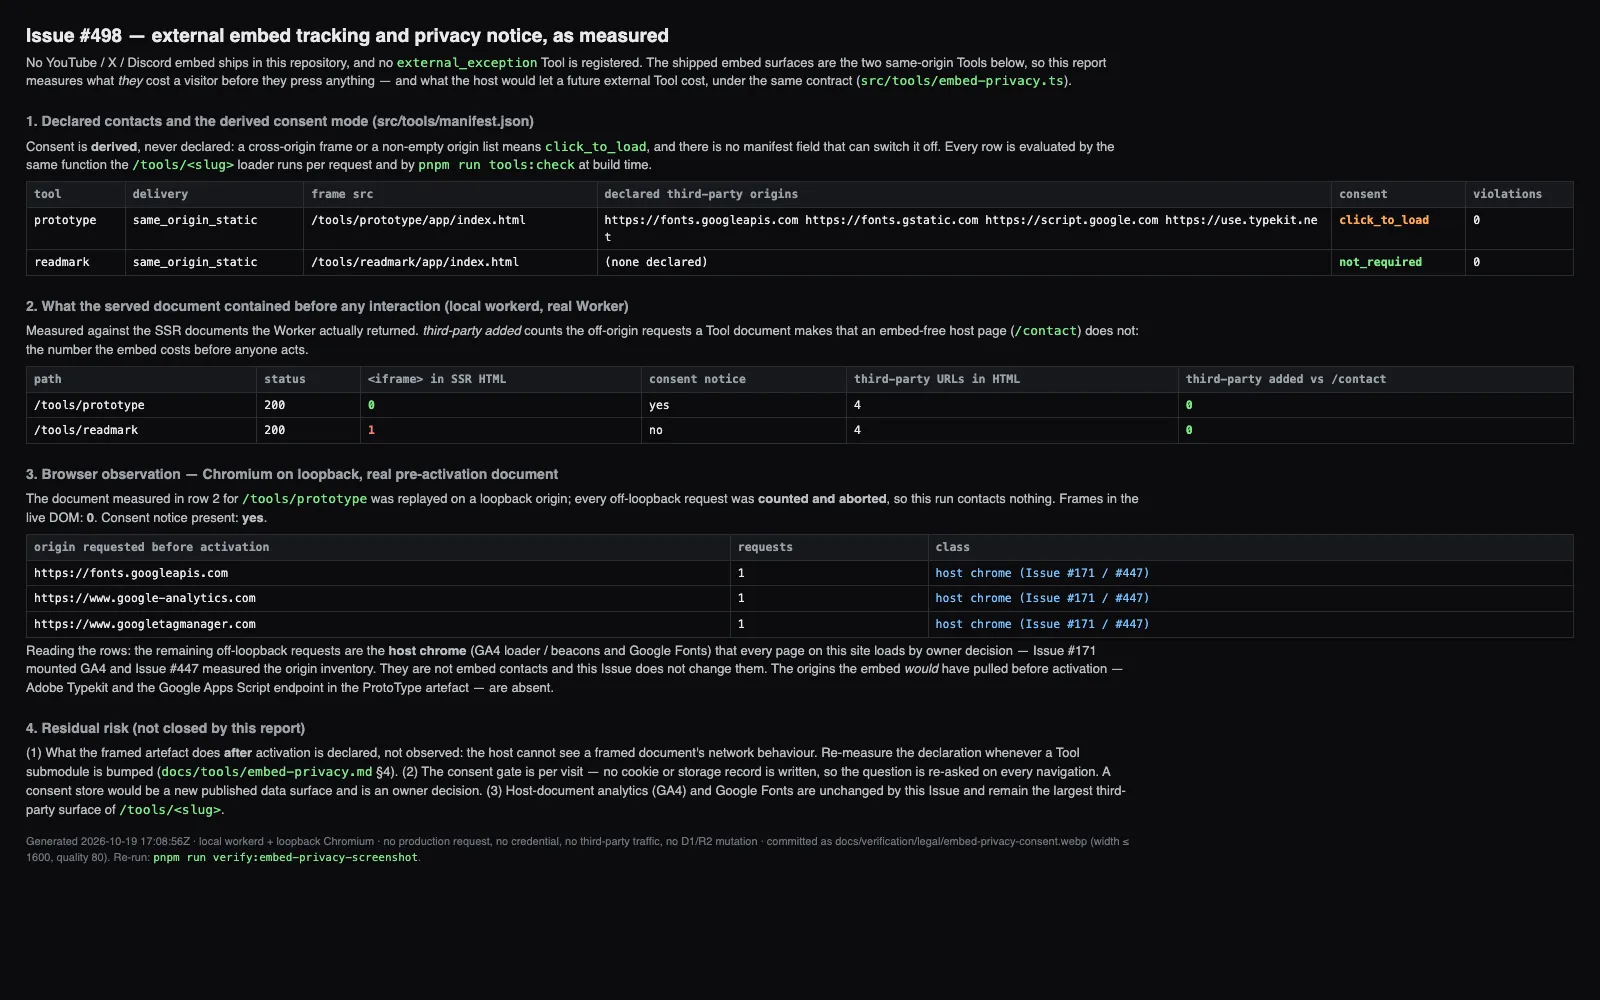
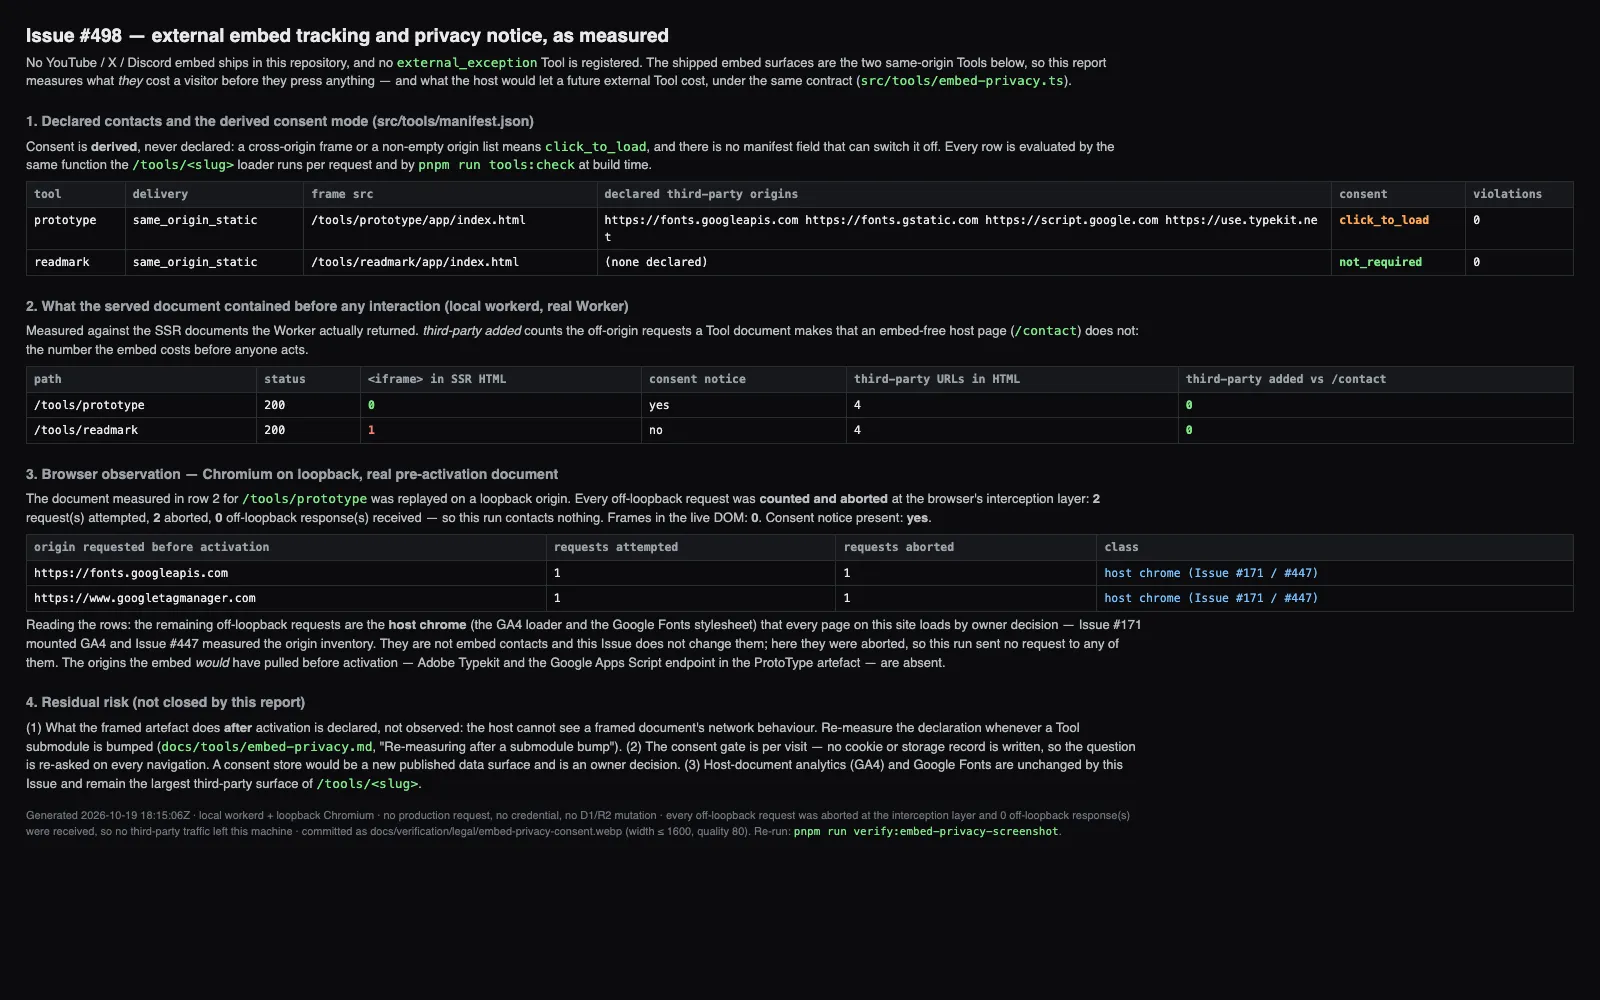
fix(tools): make the embed privacy evidence match what the probe does (#498)
The committed verification evidence claimed the browser leg "counted and
aborted" every off-loopback request, but the probe never aborted
anything: it only counted `page.on('request')` events. Re-running the
documented command therefore really did reach googletagmanager.com /
fonts.googleapis.com from the operator's machine, and the recorded
`google-analytics.com` row could only exist because the GA4 loader was
actually fetched.

- scripts/make-embed-privacy-report.mjs: intercept every request with
  `context.route`, count and ABORT the off-loopback ones in the same
  handler, and fail the run when an off-loopback response was received.
  The report now prints attempted / aborted / received counts.
- src/tools/embed-privacy.ts: resolve the frame src with
  `resolveToolFrameSrc()` (the embed policy's own resolver) instead of
  re-deriving it, and read an unresolved frame src as third-party so the
  gate fails closed; the comment now says what the code does.
- src/tools/embed-privacy.test.ts: pin both properties.
- src/tools/manifest.schema.json, docs/tools/embed-privacy.md: point at
  the "Re-measuring after a submodule bump" section instead of a wrong
  "§4".
- e2e/{tools-prototype,nav,tools-index}.spec.ts: re-click the
  server-rendered activation button until the frame mounts, so a click
  that lands before hydration cannot be swallowed.
- quality/bundle-budget.json: re-derive the three caps Issue #498
  touched with the documented formula (1,590,000 / 1,625,000 /
[…]

Changed region(s): [[0.0, 0.496, 0.8125, 0.868]]

diff --git a/src/tools/embed-privacy.ts b/src/tools/embed-privacy.ts
@@ -58,12 +58,19 @@
  *     Tool whose own frame origin is undeclared. It cannot observe a
  *     framed document's network behaviour, and this module does not
  *     pretend otherwise: re-declaring after a submodule bump is the
- *     documented duty (`docs/tools/embed-privacy.md` §4).
+ *     documented duty (the "Re-measuring after a submodule bump"
+ *     section of `docs/tools/embed-privacy.md`).
  *
  * Dependency-free like `embed-policy.ts` (no manifest import, no React,
  * no DOM), so `scripts/check-tools-manifest.mjs` imports it directly
  * under Node type stripping and the route imports the same function.
+ * The ONE thing it reads from `embed-policy.ts` is
+ * `resolveToolFrameSrc()` — the frame-src resolution, imported rather
+ * than re-derived, so the privacy contract and the embed policy can
+ * never disagree about which document the host mounts.
  */
+
+import { resolveToolFrameSrc } from './embed-policy.ts';
 
 /* ------------------------------------------------------------------ *
  * 1. consent modes
@@ -107,6 +114,7 @@ export interface ToolPrivacyDeclaration {
 /** The `delivery` fields the privacy contract reads. */
 export interface ToolPrivacyDeliveryLike {
 	readonly kind: string;
+	readonly artifact_path?: string;
 	readonly entry_html?: string;
 	readonly external_url?: string;
 	readonly privacy?: ToolPrivacyDeclaration | undefined;
@@ -195,12 +203,13 @@ export function toPrivacySubject(
 	slug: string,
 	delivery: ToolPrivacyDeliveryLike,
 ): EmbedPrivacySubject {
-	const frame_src =
-		delivery.kind === 'external_exception'
-			? (delivery.external_url ?? '')
-			: typeof delivery.entry_html === 'string' && delivery.entry_html.length > 0
-				? delivery.entry_html
-				: '';
+	// The SAME resolution the embed policy uses, so the privacy subject
+	// names the document the host will actually mount: `entry_html`
+	// first, then `artifact_path`/index.html for a `same_origin_static`
+	// entry that declares no entry HTML, then the external URL. A
+	// re-derived rule here would let the two contracts disagree about
+	// which document is framed.
+	const frame_src = resolveToolFrameSrc(delivery);
 	return {
 		slug,
 		kind: delivery.kind,
@@ -217,8 +226,13 @@ export function toPrivacySubject(
  * function distinguishes "the URL parser sends this elsewhere" (a
  * smuggling attempt) from "the author meant a foreign origin", and this
  * one only needs to know whether the frame document is third-party.
- * Anything it cannot parse is treated as third-party, so an unparseable
- * src can never lower the gate.
+ *
+ * An `src` this cannot parse stays `unresolved`, and the gate reads an
+ * unresolved frame as requiring consent (fail closed) — an unparseable
+ * `src` can never lower the gate. The frame-src rules in
+ * `embed-policy.ts` refuse such a `src` outright
+ * (`embed.frame-src.invalid-scheme`), so nothing unresolved is ever
+ * mounted; the fail-closed reading here is the second line of defence.
  */
 function classifyFrameOrigin(src: string): EmbedPrivacySubject['frame_origin'] {
 	if (typeof src !== 'string' || src.trim().length === 0) return 'unresolved';
@@ -362,8 +376,12 @@ export function evaluateEmbedPrivacy(subject: EmbedPrivacySubject): EmbedPrivacy
 
 	contacts.sort();
 
+	// Consent fails closed: a cross-origin frame, a frame whose `src`
+	// could not be resolved at all, or a non-empty declaration all
+	// require the visitor to activate the load. Only a same-origin
+	// frame that declares no contact may mount without asking.
 	const consent: EmbedConsentMode =
-		frame_is_third_party || contacts.length > 0
+		frame_is_third_party || subject.frame_origin === 'unresolved' || contacts.length > 0
 			? CONSENT_MODE_CLICK_TO_LOAD
 			: CONSENT_MODE_NOT_REQUIRED;
 

diff --git a/src/tools/embed-privacy.test.ts b/src/tools/embed-privacy.test.ts
@@ -292,14 +292,32 @@ describe('embed privacy — origin normalisation and subject flattening', () => 
 		});
 	});
 
+	it('resolves the frame src exactly the way the embed policy resolves it', () => {
+		// A `same_origin_static` entry that declares no entry HTML is
+		// mounted from `artifact_path`/index.html. The privacy subject
+		// has to name the SAME document the policy resolved — otherwise
+		// the two contracts disagree about what is framed.
+		expect(
+			toPrivacySubject('c', {
+				kind: 'same_origin_static',
+				artifact_path: '/tools/fixture/app',
+				privacy: { third_party_origins: [] },
+			}),
+		).toMatchObject({
+			frame_src: '/tools/fixture/app/index.html',
+			frame_origin: 'same-origin',
+		});
+	});
+
 	it('treats an unresolvable frame src as third-party, never as an exemption', () => {
 		const verdict = evaluateEmbedPrivacy(
 			subject({ frame_src: 'javascript:alert(1)', frame_origin: 'unresolved' }),
 		);
-		// `unresolved` is not `cross-origin`, so the gate is derived from
-		// the declared contacts; the separate frame-src rules in
-		// embed-policy.ts are what refuse this src outright.
-		expect(verdict.consent).toBe(CONSENT_MODE_NOT_REQUIRED);
+		// `unresolved` fails closed: the gate asks before it mounts. The
+		// separate frame-src rules in embed-policy.ts refuse such a src
+		// outright (`embed.frame-src.invalid-scheme`), so this is the
+		// second line of defence, not the first.
+		expect(verdict.consent).toBe(CONSENT_MODE_CLICK_TO_LOAD);
 		const subject2 = evaluateEmbedPrivacy(
 			subject({ frame_src: 'data:text/html,x', frame_origin: 'unresolved' }),
 		);

diff --git a/e2e/tools-prototype.spec.ts b/e2e/tools-prototype.spec.ts
@@ -109,12 +109,27 @@ async function openWithFrame(page: Page): Promise<void> {
 		// acts. Asserting it here means a regression that re-mounted the
 		// iframe eagerly fails at its own cause, not downstream.
 		await expect(page.locator('iframe')).toHaveCount(0);
-		// The notice is server-rendered, so it is clickable before
-		// hydration has attached the handler. Waiting for the network to
-		// go idle first is what makes the click land on a hydrated button
-		// instead of a race with React.
+		// The notice is server-rendered, so the button exists before
+		// React attaches the handler: a click that lands before
+		// hydration is swallowed and the frame never mounts. Re-click
+		// until it does — the same bounded pattern the production smoke
+		// spec uses for the reaction picker (Issue #238) — so the race
+		// widens the failure window instead of causing a flake. The
+		// loop is bounded, so a genuine regression still fails.
 		await page.waitForLoadState('networkidle');
-		await activate.click();
+		const frame = page.locator('iframe[title="ProtoType Tool"]');
+		let mounted = false;
+		for (let attempt = 0; attempt < 5 && !mounted; attempt++) {
+			await activate.click({ timeout: 2_000 }).catch(() => undefined);
+			mounted = await frame
+				.waitFor({ state: 'attached', timeout: 2_000 })
+				.then(() => true)
+				.catch(() => false);
+		}
+		expect(
+			mounted,
+			'the consent gate never mounted the frame after repeated clicks — hydration or the gate is broken',
+		).toBe(true);
 	}
 	await page.waitForSelector('iframe[title="ProtoType Tool"]', {
 		state: 'attached',

diff --git a/e2e/tools-index.spec.ts b/e2e/tools-index.spec.ts
@@ -65,7 +65,26 @@ test.describe('Tool Registry — /tools index (Issue #80, #195)', () => {
 		// Tool is two steps now — the notice, then the load — and the
 		// gate itself is asserted in e2e/tools-prototype.spec.ts.
 		await expect(page.getByTestId('tool-embed-consent')).toBeVisible();
-		await page.getByTestId('tool-embed-consent-activate').click();
+		// The notice is server-rendered: the button exists before React
+		// attaches the handler, so a click that lands before hydration is
+		// swallowed. Re-click until the frame appears (bounded), the same
+		// pattern the prototype spec uses.
+		const frame = page.locator('iframe[title="ProtoType Tool"]');
+		let mounted = false;
+		for (let attempt = 0; attempt < 5 && !mounted; attempt++) {
+			await page
+				.getByTestId('tool-embed-consent-activate')
+				.click({ timeout: 2_000 })
+				.catch(() => undefined);
+			mounted = await frame
+				.waitFor({ state: 'attached', timeout: 2_000 })
+				.then(() => true)
+				.catch(() => false);
+		}
+		expect(
+			mounted,
+			'the consent gate never mounted the frame after repeated clicks — hydration or the gate is broken',
+		).toBe(true);
 		await expect(page.locator('iframe[title="ProtoType Tool"]')).toBeVisible();
 	});
 });

diff --git a/e2e/nav.spec.ts b/e2e/nav.spec.ts
@@ -163,7 +163,26 @@ test.describe('public nav — Tools exclusion (Issue #288)', () => {
 		// the visitor asked for by activating the load.
 		await expect(page.getByTestId('tool-embed-consent')).toBeVisible();
 		await page.waitForLoadState('networkidle');
-		await page.getByTestId('tool-embed-consent-activate').click();
+		// The notice is server-rendered: the button exists before React
+		// attaches the handler, so a click that lands before hydration is
+		// swallowed. Re-click until the frame appears (bounded), the
+		// same pattern the prototype spec uses.
+		const frame = page.locator('iframe[title="ProtoType Tool"]');
+		let mounted = false;
+		for (let attempt = 0; attempt < 5 && !mounted; attempt++) {
+			await page
+				.getByTestId('tool-embed-consent-activate')
+				.click({ timeout: 2_000 })
+				.catch(() => undefined);
+			mounted = await frame
+				.waitFor({ state: 'attached', timeout: 2_000 })
+				.then(() => true)
+				.catch(() => false);
+		}
+		expect(
+			mounted,
+			'the consent gate never mounted the frame after repeated clicks — hydration or the gate is broken',
+		).toBe(true);
 		await expect(page.locator('iframe[title="ProtoType Tool"]')).toBeVisible();
 	});
 

diff --git a/docs/verification/legal/embed-privacy-consent.md b/docs/verification/legal/embed-privacy-consent.md
@@ -17,7 +17,10 @@
    embed-free page (`/contact`) does not.
 3. **A Chromium replay** of the real pre-activation document on a
    loopback origin, counting the requests it attempts while every
-   off-loopback request is aborted.
+   off-loopback request is aborted at the browser's interception
+   layer. The probe also asserts that **no** off-loopback response was
+   received — a run that was not network-isolated fails instead of
+   publishing a report.
 4. The residual risks this record does **not** close.
 
 The contract these columns are measuring is described in
@@ -29,7 +32,7 @@ The contract these columns are measuring is described in
 | --- | --- |
 | Policy rows | `test/integration/embed-privacy.test.ts` driving the real Worker in the local `workerd` pool (`vitest.config.ts` bindings) |
 | Browser rows | Chromium (Playwright, the project's pinned build) on `http://127.0.0.1:<port>` |
-| Network | every off-loopback request **counted and aborted** — this run contacts no third party, no production origin, and holds no credential |
+| Network | every off-loopback request **counted and aborted** at the interception layer (`context.route`); the run measured 2 attempted / 2 aborted / **0** off-loopback responses received — this run contacts no third party, no production origin, and holds no credential |
 | D1 / R2 | untouched; no migration, no write |
 | Document under test | the SSR document the Worker itself returned for the gated route, carried into the report by the suite (not re-authored) |
 | Re-run | `pnpm run verify:embed-privacy-screenshot` |
@@ -40,11 +43,12 @@ The contract these columns are measuring is described in
 - `/tools/prototype` — `click_to_load`. The served HTML contains
   **zero `<iframe>` elements** and the notice is present. Its four
   declared origins are named **as text** inside the notice; none of
-  them is fetched. The off-loopback requests the replay counted are
-  the host chrome every page loads (`googletagmanager.com`,
-  `google-analytics.com`, `fonts.googleapis.com`) — a separate owner
-  decision (Issue #171 mounted GA4, Issue #447 measured the inventory),
-  not an embed contact, and unchanged by this Issue.
+  them is fetched. The two off-loopback requests the replay counted
+  (`fonts.googleapis.com`, `www.googletagmanager.com`) are the host
+  chrome every page loads — a separate owner decision (Issue #171
+  mounted GA4, Issue #447 measured the inventory), not an embed
+  contact, and unchanged by this Issue. Both were aborted here, so
+  this run sent no request to them.
 - `/tools/readmark` — `not_required`. It declares an empty contact
   list, so it mounts its frame immediately and the pre-existing
   host-side contract is untouched.

diff --git a/docs/tools/embed-privacy.md b/docs/tools/embed-privacy.md
@@ -79,7 +79,7 @@ There is deliberately **no** `consent_mode` field. The host computes
 it:
 
 ```text
-click_to_load  ⇔  the frame is cross-origin  OR  third_party_origins is non-empty
+click_to_load  ⇔  the frame is cross-origin  OR  the frame src could not be resolved  OR  third_party_origins is non-empty
 not_required   ⇔  otherwise
 ```
 
@@ -87,6 +87,19 @@ So there is nothing to switch off. An operator cannot write
 `"consent_mode": "not_required"` and ship a Tool that phones home; the
 only way to `not_required` is to prove the Tool is same-origin **and**
 declares no contact.
+
+A frame `src` the contract cannot resolve at all (`javascript:`,
+`data:`, garbage) is read as **third-party**, so it fails closed: the
+gate asks before it mounts. `embed-policy.ts` refuses such an `src`
+outright (`embed.frame-src.invalid-scheme`), so nothing unresolved is
+ever framed — the fail-closed reading here is the second line of
+defence.
+
+The frame `src` itself is resolved by `resolveToolFrameSrc()` in
+`embed-policy.ts` — the SAME function the policy uses — so the privacy
+contract and the embed policy can never disagree about which document
+the host mounts (a `same_origin_static` entry that declares no
+`entry_html` is mounted from `artifact_path`/index.html).
 
 ### 3. A foreign frame must name itself
 
